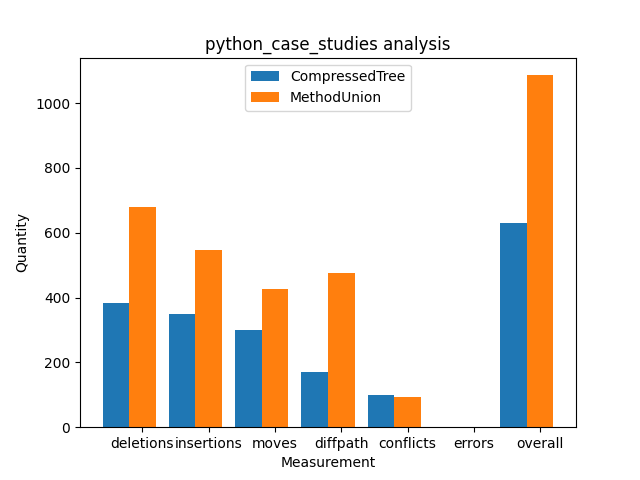
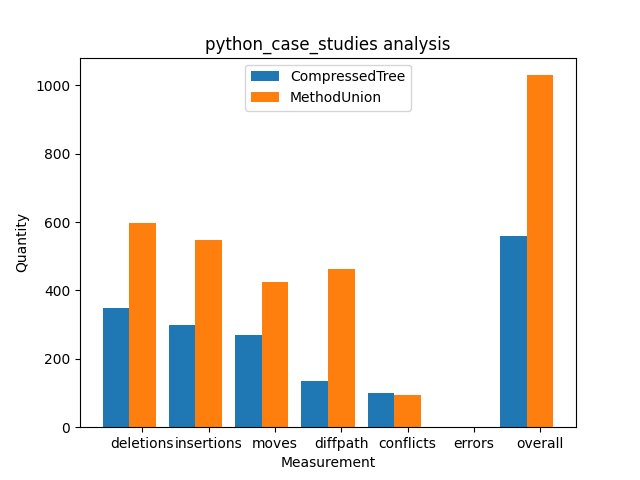
fix: Fixed python import statement merge
Tool wasn't adding all necessary import statements before because of parameter error. Fixed now.

diff --git a/demos/scripts/run_algo.py b/demos/scripts/run_algo.py
@@ -248,7 +248,7 @@ def run_gumtree_existing(reference_path,tool):
     import_data,import_total=search_gumtree_imports(result)
     search_gumtree_full(result,new,num_conflicts,import_data,import_total,reference_path.split('/')[-2]+'-'+reference_path.split('/')[-1])
 
-    subprocess.run(['rm',new_result])
+    # subprocess.run(['rm',new_result])
 
 
 
@@ -315,13 +315,15 @@ def run_gumtree_algo(reference_path,output_path,lang,algo):
         case "py":
             all_result=subprocess.run(['java','-jar',gumtree_path,'textdiff','-m','theta',desired,new_result],capture_output=True,text=True).stdout.strip("/n").split("===")
             import_data,import_total=search_gumtree_imports(all_result)
+            print(desired)
+            print(new_result)
             body_result=subprocess.run(['java','-jar',gumtree_path,'textdiff','-m','gumtree-simple-id',desired,new_result],capture_output=True,text=True).stdout.strip("/n").split("===")
             search_gumtree_full(body_result,new,num_conflicts,import_data,import_total,result.split('/')[-1])
         case "java":
             all_result=subprocess.run(['java','-jar',gumtree_path,'textdiff','-g','java-jdt','-m','gumtree-simple-id',desired,new_result],capture_output=True,text=True).stdout.strip("/n").split("===")
             import_data,import_total=search_gumtree_imports(all_result)
             search_gumtree_full(all_result,new,num_conflicts,import_data,import_total,result.split('/')[-1])
-    subprocess.run(['rm',new_result])
+    # subprocess.run(['rm',new_result])
 
 
 if __name__=="__main__":

diff --git a/demos/without_git.py b/demos/without_git.py
@@ -1,5 +1,4 @@
 import sys
-import tempfile
 from os.path import getsize
 from os import unlink
 from transitions.extensions.nesting import NestedState
@@ -627,22 +626,6 @@ class TestNestedTransitions(TestTransitions):
         machine = self.machine_cls(states=states, queued=True, initial='b')
         machine.to_b_c()
 
-<<<<<<< left_content.py
-    def test_machine_may_transitions_for_generated_triggers(self):
-        states = ['A', 'B', {'name': 'C', 'children': ['1', '2', '3']}, 'D']
-        m = self.stuff.machine_cls(states=states, initial='A')
-        assert m.may_to_A()
-        m.to_A()
-        assert m.may_to_B()
-        m.to_B()
-        assert m.may_to_C()
-        m.to_C()
-        assert m.may_to_C_1()
-        m.to_C_1()
-        # TODO: no transitions for to_D from C_1 -> D but m.to_D() works
-        assert m.may_to_D()
-        m.to_D()
-=======
     def test_get_nested_triggers(self):
         transitions = [
             ['goB', 'A', 'B'],
@@ -658,7 +641,6 @@ class TestNestedTransitions(TestTransitions):
         self.assertEqual(len(transitions) + 1, len(m.get_nested_triggers()))
         self.assertEqual(2, len(m.get_nested_triggers(['C', '1'])))
         self.assertEqual(2, len(m.get_nested_triggers(['C'])))
->>>>>>> right_content.py
 
 
 class TestSeparatorsBase(TestCase):
@@ -875,4 +857,5 @@ class TestSeparatorsDot(TestSeparatorsBase):
 @skipIf(sys.version_info[0] < 3, "Unicode separators are only supported for Python 3")
 class TestSeparatorUnicode(TestSeparatorsBase):
     separator = u'↦'
+
 

diff --git a/merge-algorithms/MethodUnion/spec.py b/merge-algorithms/MethodUnion/spec.py
@@ -532,6 +532,7 @@ class Python(Lang):
                 import_nodes.append(nod)
             elif isinstance(nod, ast.ImportFrom):
                 import_nodes.append(nod)
+
         return import_nodes
     
 
@@ -565,7 +566,7 @@ class Python(Lang):
         return formatted_imports,restofCode
     
 
-    def output_imports(self,node,string,target,formatter = ""):
+    def output_imports(self,node,string,target,sus,formatter = ""):
         # Finds the specified target node in the tree
         for item in node.get_children():
             formatter = copy.deepcopy(formatter)
@@ -585,12 +586,16 @@ class Python(Lang):
             dup+=item.get_full_dir()
             if (type(item)==Pack):
                 dup+=" "
-                self.output_imports(item,dup,target,formatter)
+                self.output_imports(item,dup,target,sus,formatter)
                 formatter = ''
             elif (item==target):
                 if formatter == "":
 
                     top_body.append(dup)
+                    # if ("pandas" in target.get_full_dir()):
+                    #     print(target.get_full_dir())
+                    #     print(item.get_full_dir())
+                    #     print("WORKS")
                 else:
                     for i,imp in enumerate(top_body):
                         if theprefix in imp:

diff --git a/demos/python_case_studies/demo_results/MethodUnion/errbot-conflict7.py b/demos/python_case_studies/demo_results/MethodUnion/errbot-conflict7.py
@@ -1,13 +1,17 @@
 import logging
+import sys
+import unittest
 from os.path import sep,abspath
 from queue import Queue
 from tempfile import mkdtemp
 from threading import Thread
+import pytest
 from errbot.rendering import text
 from errbot.backends.base import Message,MUCRoom,Identifier,MUCIdentifier,ONLINE
 from errbot.core_plugins.wsview import reset_app
 from errbot.errBot import ErrBot
 from errbot.main import setup_bot
+import importlib
 log = logging.getLogger('errbot.backends.test')
 
 QUIT_MESSAGE = '$STOP$'
@@ -156,7 +160,21 @@ class TestMUCRoom(MUCRoom):
         self._bot._rooms.remove(self)
         log.info('Destroyed room {!s}'.format(self))
     
+    @topic.setter
+    def topic(self, topic):
+        self._topic = topic
+        room = self.find_croom()
+        room._topic = self._topic
+        log.info("Topic for room {!s} set to '{}'".format(self, topic))
+        self._bot.callback_room_topic(self)
     
+    @topic.setter
+    def topic(self, topic):
+        self._topic = topic
+        room = self.find_croom()
+        room._topic = self._topic
+        log.info("Topic for room {!s} set to '{}'".format(self, topic))
+        self._bot.callback_room_topic(self)
     
     def __unicode__(self):
         return self._name

diff --git a/demos/python_case_studies/demo_results/MethodUnion/blaze-importC1b.py b/demos/python_case_studies/demo_results/MethodUnion/blaze-importC1b.py
@@ -1,13 +1,19 @@
 import datetime
+import sys
 from types import MethodType
 from datashape import dshape
 from datashape.util.testing import assert_dshape_equal
-from odo import append
+import pandas as pd
+import pandas.util.testing as tm
+import pytest
+import numpy as np
+import dask.array as da
+from odo import append,into
 from odo.backends.csv import CSV
 from blaze import discover,transform
 from blaze.compatibility import pickle
 from blaze.expr import symbol
-from blaze.interactive import data,compute,concrete_head,expr_repr,to_html,iscoretype,coerce_core,Data,iscorescalar,iscoresequence,into
+from blaze.interactive import data,compute,concrete_head,expr_repr,to_html,iscoretype,coerce_core,Data,iscorescalar,iscoresequence
 from blaze.utils import tmpfile,example
 data = ('Alice', 100), ('Bob', 200)
 

diff --git a/demos/python_case_studies/demo_results/MethodUnion/blaze-importC1a.py b/demos/python_case_studies/demo_results/MethodUnion/blaze-importC1a.py
@@ -1,7 +1,12 @@
 import datetime
+import sys
 from types import MethodType
 from datashape import dshape
 from datashape.util.testing import assert_dshape_equal
+import pandas as pd
+import pandas.util.testing as tm
+import pytest
+import numpy as np
 from odo import append,into
 from odo.backends.csv import CSV
 from blaze import discover,transform
@@ -9,6 +14,7 @@ from blaze.compatibility import pickle
 from blaze.expr import symbol
 from blaze.interactive import Data,compute,concrete_head,expr_repr,to_html,data,iscorescalar,iscoresequence,iscoretype,coerce_core
 from blaze.utils import tmpfile,example
+import dask.array as da
 tdata = ('Alice', 100), ('Bob', 200)
 
 data = ('Alice', 100), ('Bob', 200)

diff --git a/demos/python_case_studies/demo_results/CompressedTree/blaze-importC1b.py b/demos/python_case_studies/demo_results/CompressedTree/blaze-importC1b.py
@@ -2,13 +2,13 @@ import datetime
 from types import MethodType
 from datashape import dshape
 from datashape.util.testing import assert_dshape_equal
-from odo import append,into
+from odo import append
 from odo.backends.csv import CSV
 from blaze import discover,transform
 from blaze.compatibility import pickle
 from blaze.expr import symbol
 from blaze.utils import tmpfile,example
-from blaze.interactive import data,compute,concrete_head,expr_repr,to_html,iscoretype,coerce_core,Data,iscorescalar,iscoresequence
+from blaze.interactive import data,compute,concrete_head,expr_repr,to_html,iscoretype,coerce_core,Data,iscorescalar,iscoresequence,into
 
 
 

diff --git a/demos/python_case_studies/demo_results/CompressedTree/cryptography-importC1.py b/demos/python_case_studies/demo_results/CompressedTree/cryptography-importC1.py
@@ -16,11 +16,11 @@ from cryptography.hazmat.primitives.ciphers.algorithms import (
 )
 from cryptography.hazmat.primitives.cmac import CMAC
 from backends.test_multibackend import DummyCMACBackend
-from utils import (
+from tests.utils import (
     load_nist_vectors,
-    load_vectors_from_file,
     raises_unsupported_algorithm,
 )
+from utils import load_vectors_from_file
 from cryptography import utils
 # Licensed under the Apache License, Version 2.0 (the "License");
 # you may not use this file except in compliance with the License.

diff --git a/demos/python_case_studies/demo_results/MethodUnion/transitions-conflict3.py b/demos/python_case_studies/demo_results/MethodUnion/transitions-conflict3.py
@@ -1,6 +1,11 @@
 import itertools
+import logging
+import asyncio
+import contextvars
+import inspect
 from collections import defaultdict,deque
 from functools import partial,reduce
+import copy
 from core import State,Condition,Transition,EventData,listify,Event,MachineError,Machine
 from nesting import HierarchicalMachine,NestedState,NestedEvent,NestedTransition,_resolve_order
 """

diff --git a/demos/python_case_studies/demo_results/MethodUnion/errbot-conflict20.py b/demos/python_case_studies/demo_results/MethodUnion/errbot-conflict20.py
@@ -1,7 +1,12 @@
 import logging
+import sys
 from errbot.utils import mess_2_embeddablehtml
+import os
+import errbot
 from errbot.backends.base import Message,build_text_html_message_pair,Identifier
 from errbot.errBot import ErrBot
+import re
+import config
 from config import BOT_DATA_DIR,BOT_PREFIX
 from errbot.backed.text import TextBackend
 

diff --git a/demos/python_case_studies/demo_results/MethodUnion/pyjwt-conflict1.py b/demos/python_case_studies/demo_results/MethodUnion/pyjwt-conflict1.py
@@ -1,7 +1,9 @@
 import hashlib
+import hmac
 from compat import binary_type,constant_time_compare,is_string_type,string_types
 from exceptions import InvalidKeyError
 from utils import der_to_raw_signature,raw_to_der_signature,base64url_decode,base64url_encode,force_bytes,force_unicode,from_base64url_uint,to_base64url_uint
+import json
 
 
 

diff --git a/demos/python_case_studies/demo_results/MethodUnion/apistar-conflict15.py b/demos/python_case_studies/demo_results/MethodUnion/apistar-conflict15.py
@@ -1,6 +1,8 @@
 import os
 from collections import OrderedDict
+import click
 from apistar import commands,routing,pipelines,schema
+import inspect
 class App(object):
     built_in_commands = commands.new, commands.run, commands.test
     def __init__(self, routes=None, commands=None):
